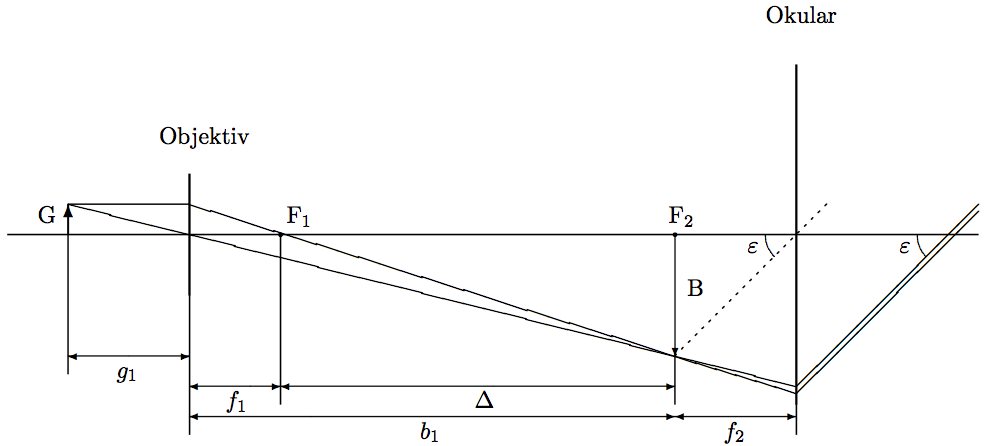
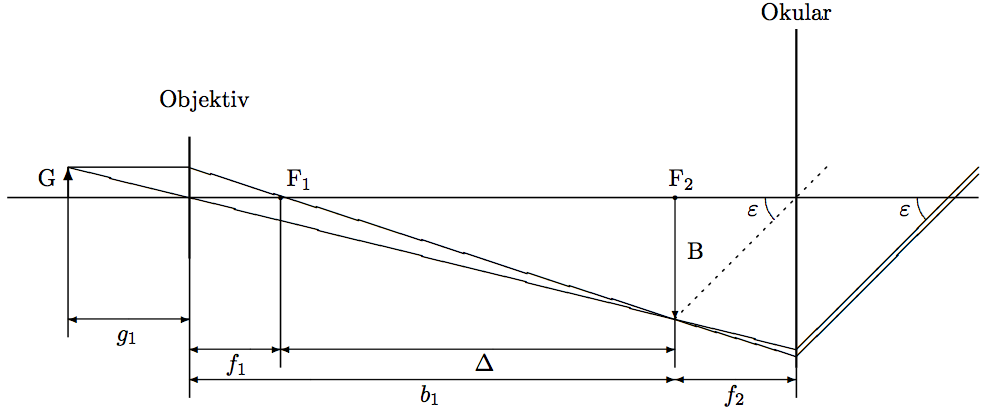
Section Optik überarbeitet: - Wellenlängen der Spektralfarben entfernt - Diverse Ergänzungen und Anpassungen in geometrischer Optik - Bei Spiegel und Linsen ebenfalls diverse Ergänzungen - Strahlengänge von allen Spiegel und Linsenarten ergänzt - Diverse Ergänzungen bei Optischen Systemen - Layout l

diff --git a/files/optik.tex b/files/optik.tex
@@ -20,6 +20,8 @@
   $c=299'792'458 \frac{m}{s} \approx 3 \cdot 10^8 \frac{m}{s}$ \\
 \end{tabular}
 
+%TODO Objekte im Strahlengang
+
 \subsection{Geometrische Optik \kuchling{360} \stoecker{309}}
 \renewcommand{\arraystretch}{2}
 \begin{tabular}{|p{2.5cm}|p{9.5cm}|p{6cm}|}
@@ -243,20 +245,40 @@
   Gegenstand hat stets virtuelles, aufrechtes \& verkleinertes Bild $(b<0)$
 \end{minipage}
 
-\subsection{Abbildungsfehler}
-\begin{tabular}{ll}
-  Sph"arische Abberation & Brennweite ist Funktion des Abstands zur optischen
-  Achse \\
-  Koma & beim schiefen Einfall ($\rightarrow$ Schweiff"ormiger Fehler) \\
-  Astigmatismus, Bildfeldw"olbung & vertikal und horizontal $\rightarrow$ andere
-  Brennweite (Auge) \\
-  Verzeichnung & tonnen- oder kissenf"ormige Verzeichnung eines Quadrates
-  ($\rightarrow$ Photogrammetrie) \\
-  Chromatische Abberation & wegen Dispersion $\Rightarrow$ Brennweite ist
-  Funktion von $\lambda$ (Farbe) \\
-\end{tabular}
+\subsection{Strahlengänge}
+	\begin{tabular}{lll}
+		\multirow{2}{3.2cm}{
+		  \parbox{3cm}{
+		      	\includegraphics[width=3cm]{./bilder/strahlengang_legende.png}}}
+		&
+		\parbox{7cm}{
+				\includegraphics[width=6.6cm]{./bilder/strahlengang_sammelspiegel.png}}
+		& 
+		\parbox{7cm}{
+				\includegraphics[width=6.6cm]{./bilder/strahlengang_streuspiegel.png}}\\
+		&
+		\parbox{7cm}{
+				\includegraphics[width=6.6cm]{./bilder/strahlengang_sammellinse.png}}
+		& 
+		\parbox{7cm}{
+				 \includegraphics[width=6.6cm]{./bilder/strahlengang_streulinse.png}}\\
+	\end{tabular}
 
 \subsection{Optische Systeme}
+\subsubsection{Lupe \kuchling{381} \stoecker{345}}
+\begin{tabular}{lll}
+  \parbox{7cm}{\includegraphics[width=7cm]{./bilder/lupe.png}} &
+  \parbox{11cm}{
+    Bild ist im Unendlichen, wenn $g=f$\\
+    Erzeugt virtuelles, vergrössertes \& aufrechtes Bild \\
+    \\
+    $V \;$ Vergr"osserung \qquad \qquad $s \;$ deutliche Sehweite (Auge: 25cm)\\
+    \qquad $\varepsilon \;$ Sehwinkel mit Lupe \qquad $\varepsilon' = \varepsilon_0 \;$ Sehwinkel
+    ohne Lupe = $1/60^\circ$\\
+    $V=\dfrac{s}{f}=\dfrac{\tan(\varepsilon)}{\tan(\varepsilon_0)}\Rightarrow\dfrac{s}{g}>
+    V_{\text{normal}}$ }
+\end{tabular}
+
 \subsubsection{Kamera \kuchling{378} \stoecker{343}}
 \begin{tabular}{lll}
   \parbox{3cm}{
@@ -287,53 +309,43 @@
     $\Rightarrow$ viel Licht, kleine Tiefensch"arfe} \\
 \end{tabular}
 
-\subsubsection{Lupe \kuchling{381} \stoecker{345}}
-\begin{tabular}{lll}
-  \parbox{7cm}{\includegraphics[width=7cm]{./bilder/lupe.png}} &
-  \parbox{11cm}{
-    Bild ist im Unendlichen, wenn $g=f$\\
-    Erzeugt virtuelles, vergrössertes \& aufrechtes Bild \\
-    \\
-    $V \;$ Vergr"osserung \qquad \qquad $s \;$ deutliche Sehweite (Auge: 25cm)\\
-    \qquad $\varepsilon \;$ Sehwinkel mit Lupe \qquad $\varepsilon' = \varepsilon_0 \;$ Sehwinkel
-    ohne Lupe = $1/60^\circ$\\
-    $V=\dfrac{s}{f}=\dfrac{\tan(\varepsilon)}{\tan(\varepsilon_0)}\Rightarrow\dfrac{s}{g}>
-    V_{\text{normal}}$ }
-\end{tabular}
+
+
+\begin{minipage}{12cm}
 \subsubsection{Projektor \kuchling{377}}
 \begin{tabular}{ll}
-\parbox{6cm}{
-  \includegraphics[width=6cm]{./bilder/projektor.png}} &
-\parbox{12cm}{
+\parbox{4cm}{
+  \includegraphics[width=4cm]{./bilder/projektor.png}} &
+\parbox{6.5cm}{
   Erzeugt reelles, vergrössertes \& umgekehrtes Bild \\
-  \\
-  $\beta \;$ Abbildungsmasstab \\
-  $\beta = \dfrac{b}{g} = \dfrac{b}{f}-1$}
+  $\beta = \dfrac{b}{g} = \dfrac{b}{f}-1$ mit $\beta \;$ Abbildungsmasstab}
 \end{tabular}
-
-\subsubsection{Mikroprojektor} 
-Erzeugt reelles Bild auf Schirm mit $V=\dfrac{B}{G}=\dfrac{b}{g}$\\
+\end{minipage}
+\begin{minipage}{6cm}
+	\subsubsection{Mikroprojektor} 
+		Erzeugt reelles Bild auf Schirm mit \[V=\dfrac{B}{G}=\dfrac{b}{g}\]
+\end{minipage}
 
 \subsubsection{Mikroskop \kuchling{382} \stoecker{345}}
 \begin{tabular}{ll}
   \parbox{8cm}{
-    \includegraphics[width=8cm]{./bilder/mikroskop.png}} &
+    \includegraphics[width=7cm]{./bilder/mikroskop.png}} &
   \parbox{10cm}{
     Erzeugt reelles, vergrössertes \& umgekehrtes Bild. \\
-    \\
+    \hspace*{1cm}\parbox{9cm}{
     $V_1 = \frac{\Delta}{f_1} \;$ Vergrösserung des Objektivs\\
     $V_2 = \frac{s}{f_2} \;$ Vergrösserung des Okulars \\
     \\
-    $\Delta = \overline{f_1\,f_2} \;$ Tubuslänge \\
+    $\Delta = \overline{F_1\,F_2} = b_1 - f_1 \;$ Tubuslänge \\
     $V=V_1\,V_2= \dfrac{f_1}{f_2} = \dfrac{\Delta}{f_1} \dfrac{s}{f_2} =
-    \dfrac{B}{G} \, \dfrac{s}{f_2}$ }
+    \dfrac{B}{G} \, \dfrac{s}{f_2}$ }}
 \end{tabular}
 
 \subsubsection{Keplersches (Astronomisches) Fernrohr \kuchling{383} \stoecker{347}}
 \begin{tabular}{ll}
-  \parbox{11cm}{
+  \parbox{10cm}{
     \includegraphics[width=10cm]{./bilder/astron.png}} &
-  \parbox{7cm}{
+  \parbox{8cm}{
     Erzeugt reelles, vergrössertes \& umgekehrtes Bild. Dies ist ein Spezialfall
     des Mikroskops, wo die \textbf{Gegenstandsweite} auf \textbf{unendlich} ($g \rightarrow \infty$) eingestellt ist. \\
     \\
@@ -348,29 +360,43 @@ $V = \dfrac{\tan(\varepsilon)}{\tan(\varepsilon')} = \dfrac{B/f_2}{B/f_1} =
 \dfrac{f_1}{f_2} = \dfrac{D}{d} = \dfrac{f_1+f_2}{a}$ \qquad $l = f_1+f_2$
 \qquad $\dfrac{1}{f_1+f_2} + \dfrac{1}{a} = \dfrac{1}{f_2}$ \qquad
 $a = \frac{l}{V} $ \qquad $d = \frac{D}{V}$ \qquad $L = d^2 = \left( \frac{D}{V}
-\right)^2$
+\right)^2$\\ \\
+Bezeichnung auf Fernrohren, Ferngläser (z.B. 10x50) entspricht $V$x$D$ \\
 
 \subsubsection{Diverse \kuchling{384} \stoecker{347}}
 \begin{tabular}{ll}
   Terrestr. Fernr. & 
-  $V=\left|\dfrac{f_1}{f_2}\right|$ \qquad L"ange: $l=f-|f_2|$ (ent. mit
+  $V=\dfrac{f_1}{|f_2|}$ \qquad L"ange: $l=f_1-|f_2|$ (evt. mit
   Umkehrlinse (ZF), Prismen oder Streul. zur Umkehrung) \\
   Spiegelteleskope &
   Reflexion$\leftrightarrow$Brechung (weniger Lichtv.), k. Dispersion (k. chrom.
-  Abberation), Verzug durch Masse  \\
+ Abberation), Verzug durch Masse  \\
 \end{tabular}
-\begin{multicols}{2}
 
-\subsection{Konstruktion des Strahlengangs}
-\begin{center}
-  \includegraphics[width=9cm]{./bilder/strahlengang.png}
-\end{center}
+\subsection{Abbildungsfehler}
+\begin{tabular}{ll}
+  Sph"arische Abberation & Brennweite ist Funktion des Abstands zur optischen
+  Achse \\
+  Koma & beim schiefen Einfall ($\rightarrow$ Schweiff"ormiger Fehler) \\
+  Astigmatismus, Bildfeldw"olbung & vertikal und horizontal $\rightarrow$ andere
+  Brennweite (Auge) \\
+  Verzeichnung & tonnen- oder kissenf"ormige Verzeichnung eines Quadrates
+  ($\rightarrow$ Photogrammetrie) \\
+  Chromatische Abberation & wegen Dispersion $\Rightarrow$ Brennweite ist
+  Funktion von $\lambda$ (Farbe) \\
+\end{tabular}
 
-\subsection{Strichgitter}
-$\lambda = g \cdot \frac{\sin(\Phi)}{n}$\\
-\\
-$\lambda$ = Wellenlänge des Lichts\\
-g = Abstand der Striche\\
-$\Phi$ = Winkel, bei dem ein Maximum ist\\
-n = das wievielte Maximum es ist\\
-\end{multicols}
+
+%\newpage
+%\begin{multicols}{2}
+
+%TODO Besser positionieren
+
+%\subsection{Strichgitter}
+%$\lambda = g \cdot \frac{\sin(\Phi)}{n}$\\
+%\\
+%$\lambda$ = Wellenlänge des Lichts\\
+%g = Abstand der Striche\\
+%$\Phi$ = Winkel, bei dem ein Maximum ist\\
+%n = das wievielte Maximum es ist\\
+%\end{multicols}
